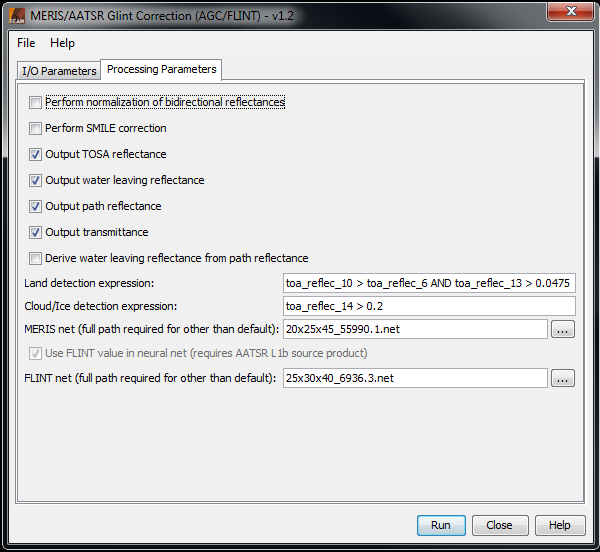
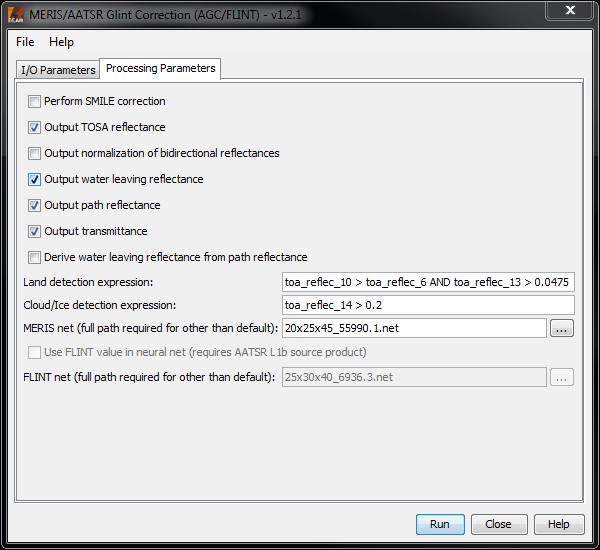
writing norm reflec as extra optional output

Changed region(s): [[0.0, 0.0, 1.0, 1.0]]

diff --git a/src/main/java/org/esa/beam/atmosphere/operator/GlintCorrectionOperator.java b/src/main/java/org/esa/beam/atmosphere/operator/GlintCorrectionOperator.java
@@ -56,13 +56,13 @@ import static org.esa.beam.dataio.envisat.EnvisatConstants.*;
  */
 @SuppressWarnings({"InstanceVariableMayNotBeInitialized", "MismatchedReadAndWriteOfArray"})
 @OperatorMetadata(alias = "Meris.GlintCorrection",
-                  version = "1.2",
+                  version = "1.2.1",
                   authors = "Marco Peters, Roland Doerffer, Olaf Danne",
                   copyright = "(c) 2008 by Brockmann Consult",
                   description = "MERIS atmospheric correction using a neural net.")
 public class GlintCorrectionOperator extends Operator {
 
-    public static final String GLINT_CORRECTION_VERSION = "1.2-SNAPSHOT";
+    public static final String GLINT_CORRECTION_VERSION = "1.2.1";
 
     private static final String AGC_FLAG_BAND_NAME = "agc_flags";
     private static final String RADIANCE_MERIS_BAND_NAME = "result_radiance_rr89";
@@ -106,6 +106,13 @@ public class GlintCorrectionOperator extends Operator {
             "reflec_12", "reflec_13",
             null, null
     };
+    private static final String[] NORM_REFLEC_BAND_NAMES = {
+            "norm_refl_1", "norm_refl_2", "norm_refl_3", "norm_refl_4", "norm_refl_5",
+            "norm_refl_6", "norm_refl_7", "norm_refl_8", "norm_refl_9", "norm_refl_10",
+            null,
+            "norm_refl_12", "norm_refl_13",
+            null, null
+    };
     private static final String[] PATH_BAND_NAMES = {
             "path_1", "path_2", "path_3", "path_4", "path_5",
             "path_6", "path_7", "path_8", "path_9", "path_10",
@@ -134,11 +141,6 @@ public class GlintCorrectionOperator extends Operator {
     private Product targetProduct;
 
     @Parameter(defaultValue = "false",
-               label = "Perform normalization of bidirectional reflectances",
-               description = "Whether to perform normalization of bidirectional reflectances to nadir.")
-    private boolean doNormalization;
-
-    @Parameter(defaultValue = "false",
                label = "Perform SMILE correction",
                description = "Whether to perform SMILE correction.")
     private boolean doSmileCorrection;
@@ -146,6 +148,11 @@ public class GlintCorrectionOperator extends Operator {
     @Parameter(defaultValue = "true", label = "Output TOSA reflectance",
                description = "Toggles the output of TOSA reflectance.")
     private boolean outputTosa;
+
+    @Parameter(defaultValue = "false",
+               label = "Output normalization of bidirectional reflectances",
+               description = "Toggles the output of normalised reflectances.")
+    private boolean outputNormReflec;
 
     @Parameter(defaultValue = "true", label = "Output water leaving reflectance",
                description = "Toggles the output of water leaving irradiance reflectance.")
@@ -281,7 +288,7 @@ public class GlintCorrectionOperator extends Operator {
             InputStream neuralNetStream = getNeuralNetStream(FLINT_ATMOSPHERIC_NET_NAME, atmoNetFlintFile);
             flintNeuralNetString = readNeuralNetFromStream(neuralNetStream);
         }
-        if (doNormalization) {
+        if (outputNormReflec) {
             final InputStream neuralNetStream = getClass().getResourceAsStream(NORMALIZATION_NET_NAME);
             normalizationNeuralNetString = readNeuralNetFromStream(neuralNetStream);
         }
@@ -328,7 +335,7 @@ public class GlintCorrectionOperator extends Operator {
             final Map<String, ProductData> targetSampleDataMap = getTargetSampleData(targetTiles);
 
             NNffbpAlphaTabFast normalizationNet = null;
-            if (doNormalization) {
+            if (outputNormReflec) {
                 normalizationNet = new NNffbpAlphaTabFast(normalizationNeuralNetString);
             }
 
@@ -443,6 +450,9 @@ public class GlintCorrectionOperator extends Operator {
         }
         if (outputReflec) {
             fillTargetSample(REFLEC_BAND_NAMES, pixelIndex, targetSampleData, glintResult.getReflec());
+        }
+        if (outputNormReflec) {
+            fillTargetSample(NORM_REFLEC_BAND_NAMES, pixelIndex, targetSampleData, glintResult.getNormReflec());
         }
         if (outputPath) {
             fillTargetSample(PATH_BAND_NAMES, pixelIndex, targetSampleData, glintResult.getPath());
@@ -572,14 +582,14 @@ public class GlintCorrectionOperator extends Operator {
             groupList.add("tosa_reflec");
         }
         if (outputReflec) {
-            String descriptionPattern;
-            if (doNormalization) {
-                descriptionPattern = "Normalised water leaving radiance reflectance at {0} nm";
-            } else {
-                descriptionPattern = "Water leaving radiance reflectance at {0} nm";
-            }
+            String descriptionPattern = "Water leaving radiance reflectance at {0} nm";
             addSpectralTargetBands(product, REFLEC_BAND_NAMES, descriptionPattern, "sr^-1");
             groupList.add("reflec");
+        }
+        if (outputNormReflec) {
+            String descriptionPattern = "Normalised water leaving radiance reflectance at {0} nm";
+            addSpectralTargetBands(product, NORM_REFLEC_BAND_NAMES, descriptionPattern, "sr^-1");
+            groupList.add("norm_refl");
         }
         if (outputPath) {
             addSpectralTargetBands(product, PATH_BAND_NAMES, "Water leaving radiance reflectance path at {0} nm",

diff --git a/src/main/java/org/esa/beam/atmosphere/operator/GlintResult.java b/src/main/java/org/esa/beam/atmosphere/operator/GlintResult.java
@@ -7,8 +7,10 @@ package org.esa.beam.atmosphere.operator;
  * @version $Revision: 2703 $ $Date: 2010-01-21 13:51:07 +0100 (Do, 21 Jan 2010) $
  */
 public class GlintResult {
+
     private double[] tosaReflec;
     private double[] reflec;
+    private double[] normReflec;
     private double[] path;
     private double[] trans;
     private double angstrom;
@@ -23,6 +25,7 @@ public class GlintResult {
     public GlintResult() {
         tosaReflec = new double[12];
         reflec = new double[12];
+        normReflec = new double[12];
         path = new double[12];
         trans = new double[12];
         angstrom = 0;
@@ -49,6 +52,14 @@ public class GlintResult {
 
     public double[] getReflec() {
         return reflec;
+    }
+
+    public void setNormReflec(double[] normReflec) {
+        this.normReflec = normReflec;
+    }
+
+    public double[] getNormReflec() {
+        return normReflec;
     }
 
     public void setPath(double[] path) {
@@ -130,6 +141,5 @@ public class GlintResult {
     public int getFlag() {
         return flag;
     }
-
 
 }

diff --git a/src/main/java/org/esa/beam/atmosphere/operator/GlintCorrection.java b/src/main/java/org/esa/beam/atmosphere/operator/GlintCorrection.java
@@ -164,6 +164,8 @@ public class GlintCorrection {
                 reflec[i] *= Math.PI;
             }
         }
+        glintResult.setReflec(reflec);
+
         if (normalizationNet != null) {
             double[] normInNet = new double[15];
             normInNet[0] = tetaSunSurfDeg;
@@ -173,11 +175,12 @@ public class GlintCorrection {
                 normInNet[i + 3] = Math.log(reflec[i]);
             }
             final double[] normOutNet = normalizationNet.calc(normInNet);
+            final double[] normReflec = new double[reflec.length];
             for (int i = 0; i < 12; i++) {
-                reflec[i] = Math.exp(normOutNet[i]);
+                normReflec[i] = Math.exp(normOutNet[i]);
             }
+            glintResult.setNormReflec(normReflec);
         }
-        glintResult.setReflec(reflec);
 
         /* compute angstrom coefficient from band 12 and 13 778 and 865 nm */
         double ang_443_865 = -Math.log(atmoOutnet[36] / atmoOutnet[39]) / Math.log(
